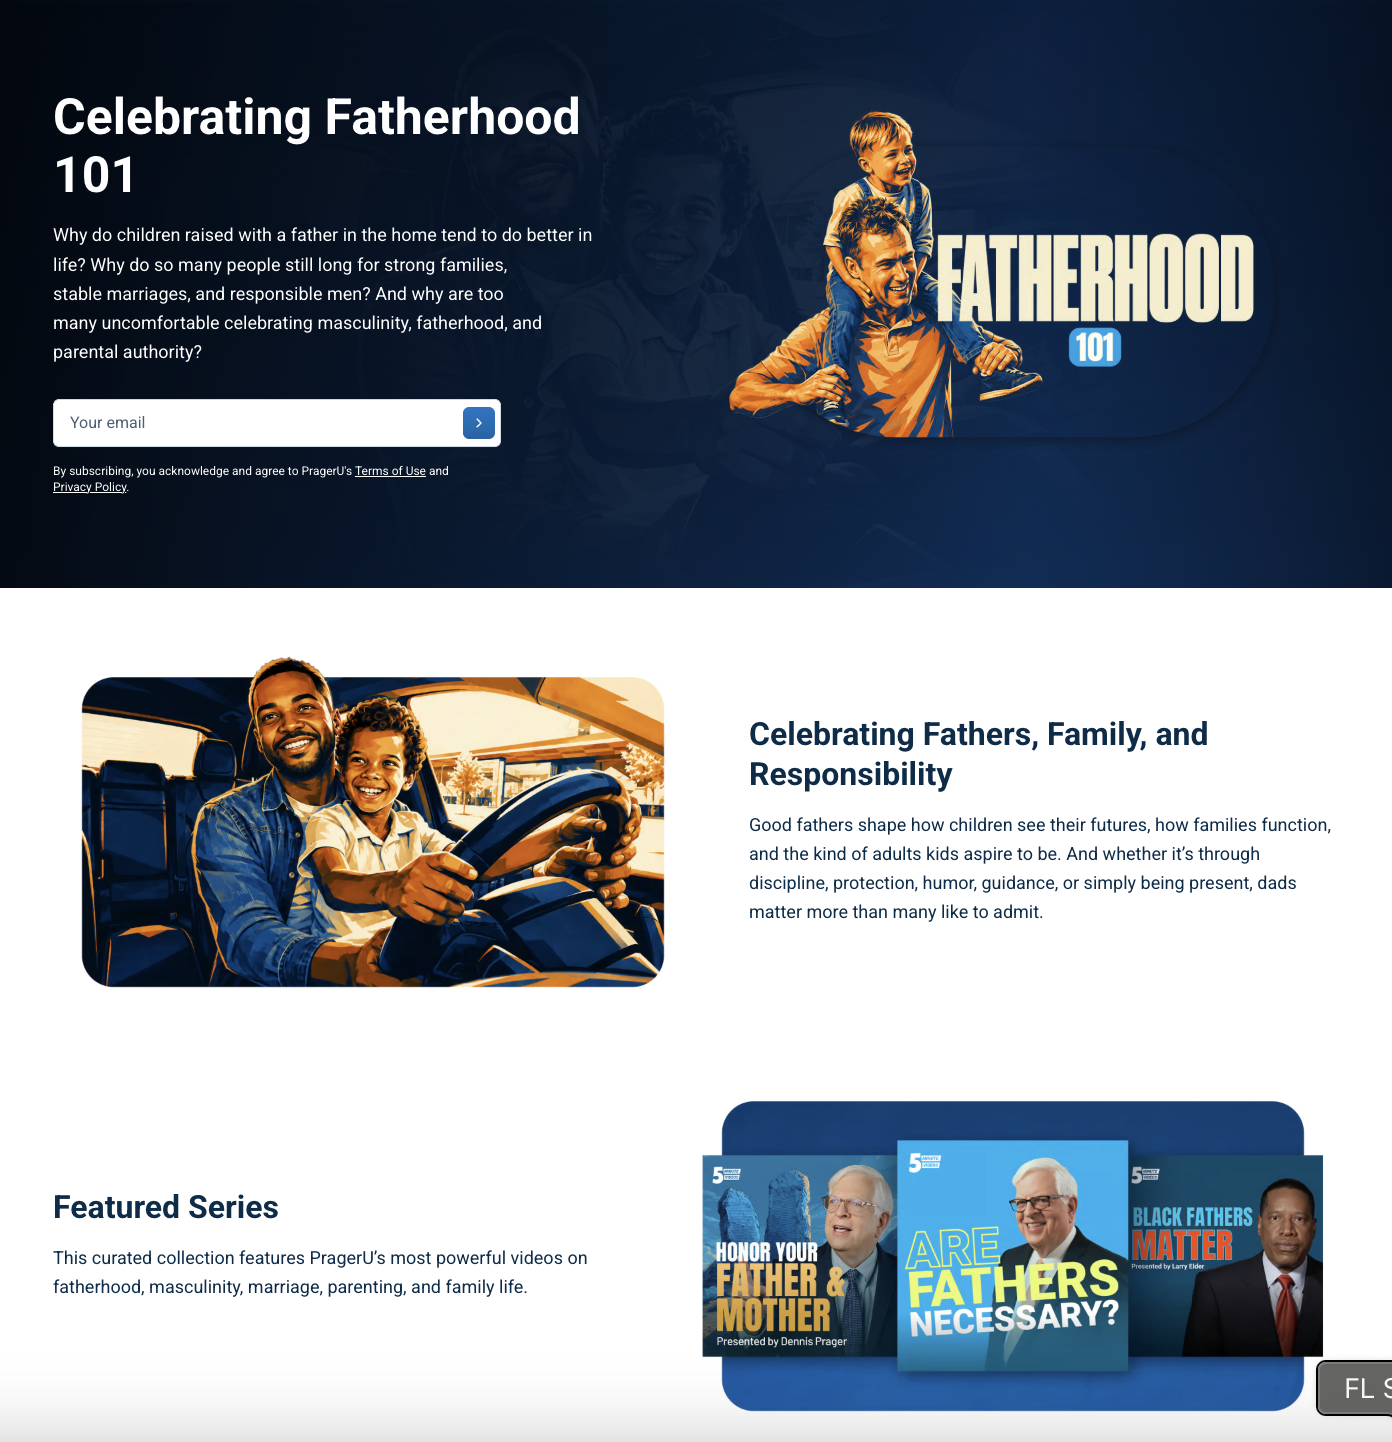
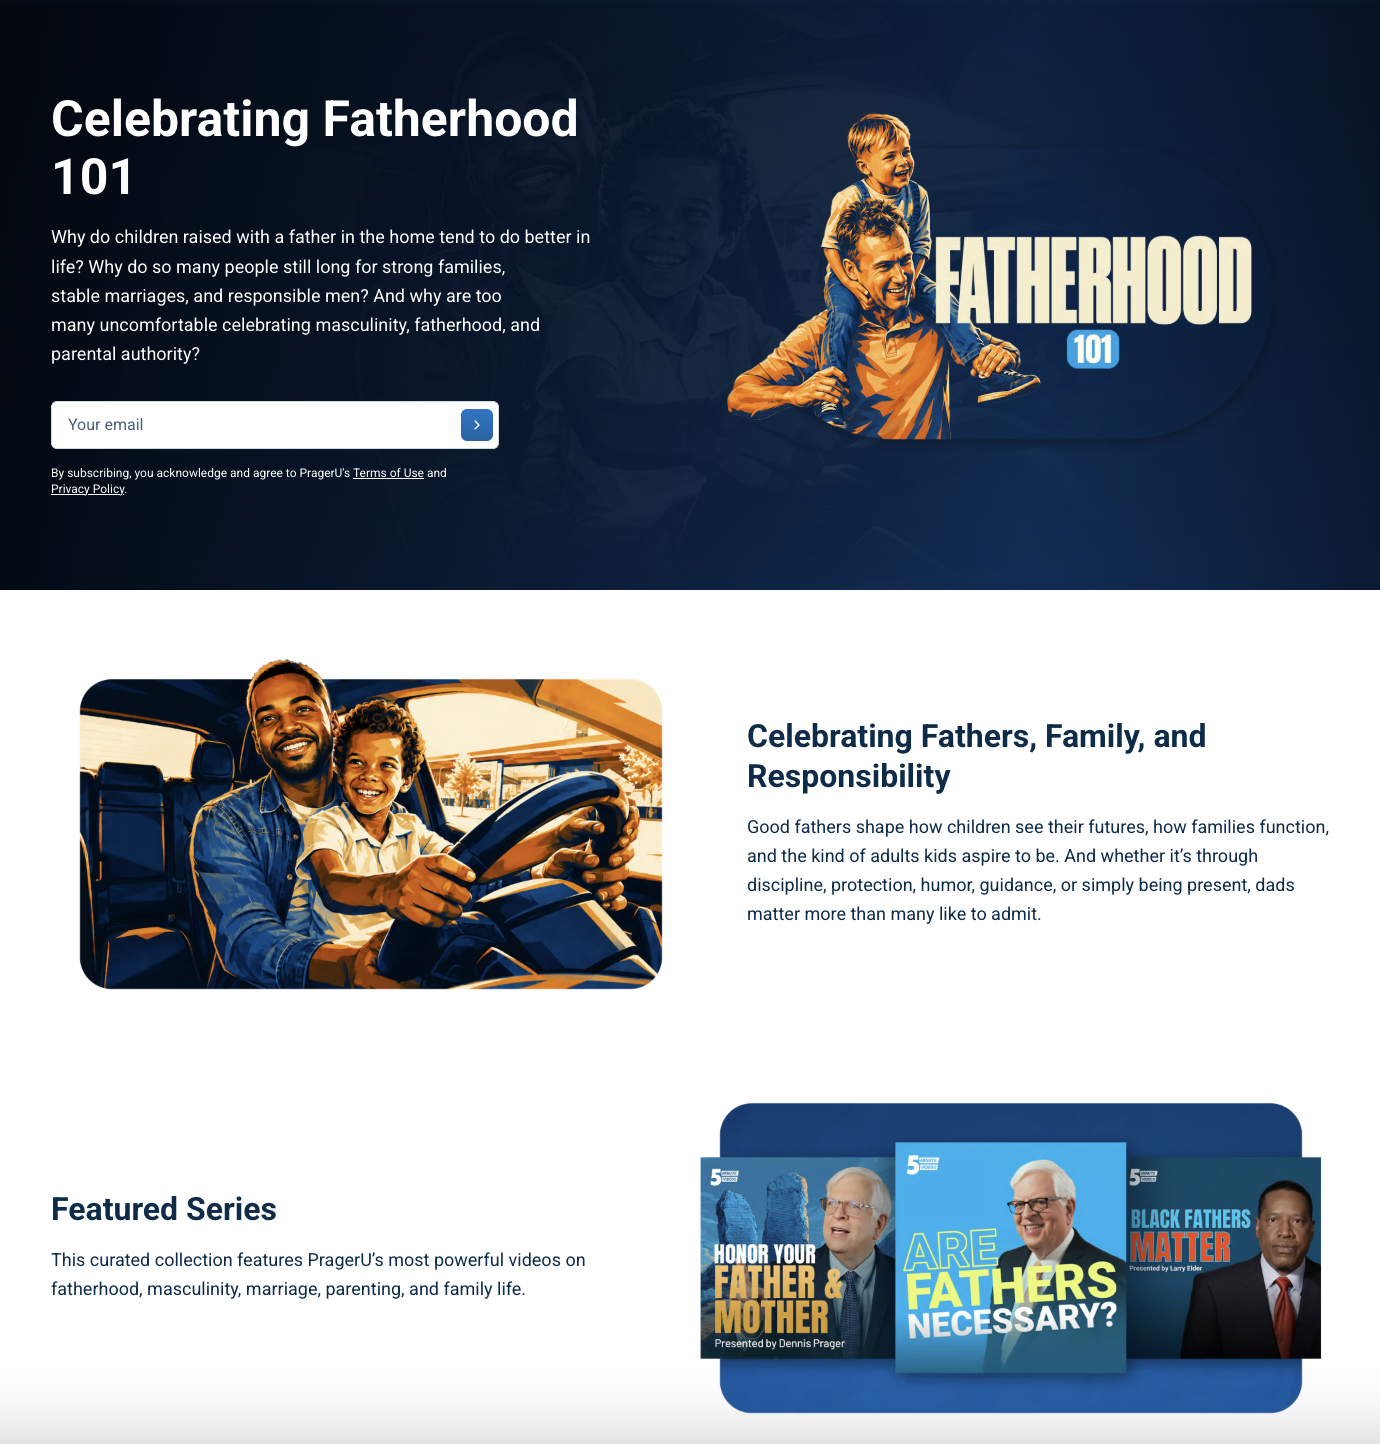
Collage hover on Fatherhood 101 card, remove case study hero, update copy
- ProjectCard: staggered collage overlay on hover for projects with collageImages
- Case study: remove hero section, info bar is now first element
- Rename 'Overview' to 'Project Overview'
- Update all Fatherhood 101 image refs to new clean filenames (quiz.jpg, page.png)

diff --git a/components/ProjectCard.tsx b/components/ProjectCard.tsx
@@ -10,18 +10,29 @@ interface Props {
   className?: string;
 }
 
+// Staggered collage positions: [top%, left%, width%, rotate, zIndex]
+const COLLAGE_LAYOUT = [
+  { top: "5%",  left: "2%",  width: "52%", rotate: "-3deg",  z: 3 },
+  { top: "8%",  left: "54%", width: "28%", rotate: "4deg",   z: 4 },
+  { top: "30%", left: "68%", width: "22%", rotate: "-2deg",  z: 2 },
+  { top: "38%", left: "5%",  width: "46%", rotate: "2.5deg", z: 5 },
+  { top: "55%", left: "42%", width: "34%", rotate: "-4deg",  z: 3 },
+  { top: "62%", left: "10%", width: "30%", rotate: "1.5deg", z: 4 },
+];
+
 export default function ProjectCard({ project, className = "" }: Props) {
   const heroImage = project.images?.[0];
+  const collage = project.collageImages;
 
   return (
     <motion.div
       whileHover={{ scale: 1.02 }}
       transition={{ duration: 0.3, ease: "easeOut" }}
-      className={`relative overflow-hidden project-card ${className}`}
+      className={`relative overflow-hidden project-card group ${className}`}
       style={{ aspectRatio: project.aspect === "portrait" ? "3/4" : "16/9" }}
     >
       <Link href={`/work/${project.slug}`} className="block w-full h-full">
-        {/* Image or color placeholder */}
+        {/* Base image or color */}
         {heroImage ? (
           <Image
             src={heroImage.src}
@@ -35,30 +46,60 @@ export default function ProjectCard({ project, className = "" }: Props) {
             className="w-full h-full flex items-end p-6"
             style={{ background: project.color }}
           >
-            <span
-              className="font-heading text-cream/20 text-5xl leading-none"
-              style={{ letterSpacing: "0.05em" }}
-            >
+            <span className="font-heading text-cream/20 text-5xl leading-none" style={{ letterSpacing: "0.05em" }}>
               {project.title.toUpperCase()}
             </span>
           </div>
         )}
 
-        {/* Hover overlay */}
-        <div className="card-overlay">
-          <p
-            className="font-subtitle text-cream/70 italic text-sm mb-2"
-            style={{ fontStyle: "italic" }}
-          >
-            {project.category} · {project.year}
-          </p>
-          <h3 className="font-heading text-cream text-3xl leading-none">
-            {project.title.toUpperCase()}
-          </h3>
-          <p className="font-body text-cream/80 text-sm mt-2 line-clamp-2">
-            {project.description}
-          </p>
-        </div>
+        {/* Collage overlay — only for projects with collageImages */}
+        {collage ? (
+          <div className="absolute inset-0 opacity-0 group-hover:opacity-100 transition-opacity duration-300"
+               style={{ background: "var(--color-cream)" }}>
+            {collage.map((img, i) => {
+              const pos = COLLAGE_LAYOUT[i] ?? COLLAGE_LAYOUT[0];
+              return (
+                <motion.div
+                  key={img.src}
+                  className="absolute overflow-hidden shadow-lg"
+                  style={{
+                    top: pos.top,
+                    left: pos.left,
+                    width: pos.width,
+                    rotate: pos.rotate,
+                    zIndex: pos.z,
+                    aspectRatio: `${img.width} / ${img.height}`,
+                  }}
+                  initial={{ opacity: 0, y: 10 }}
+                  whileInView={{ opacity: 1, y: 0 }}
+                  transition={{ delay: i * 0.04, duration: 0.25 }}
+                >
+                  <Image
+                    src={img.src}
+                    alt={img.alt}
+                    fill
+                    className="object-cover"
+                    sizes="25vw"
+                  />
+                </motion.div>
+              );
+            })}
+            {/* Title at bottom */}
+            <div className="absolute bottom-0 left-0 right-0 p-4 z-10">
+              <p className="font-subtitle italic text-dark/50 text-xs mb-1">{project.category} · {project.year}</p>
+              <h3 className="font-heading text-dark text-2xl leading-none">{project.title.toUpperCase()}</h3>
+            </div>
+          </div>
+        ) : (
+          /* Standard red overlay */
+          <div className="card-overlay">
+            <p className="font-subtitle text-cream/70 italic text-sm mb-2" style={{ fontStyle: "italic" }}>
+              {project.category} · {project.year}
+            </p>
+            <h3 className="font-heading text-cream text-3xl leading-none">{project.title.toUpperCase()}</h3>
+            <p className="font-body text-cream/80 text-sm mt-2 line-clamp-2">{project.description}</p>
+          </div>
+        )}
       </Link>
     </motion.div>
   );

diff --git a/lib/projects.ts b/lib/projects.ts
@@ -1,3 +1,10 @@
+export interface ProjectImage {
+  src: string;
+  alt: string;
+  width: number;
+  height: number;
+}
+
 export interface Project {
   slug: string;
   title: string;
@@ -11,7 +18,8 @@ export interface Project {
   featured: boolean;
   color: string;
   aspect: "landscape" | "portrait";
-  images?: { src: string; alt: string; width: number; height: number }[];
+  images?: ProjectImage[];
+  collageImages?: ProjectImage[];
 }
 
 export const projects: Project[] = [
@@ -31,12 +39,19 @@ export const projects: Project[] = [
     aspect: "landscape",
     images: [
       { src: "/campaigns/fatherhood-101/spotlight.png", alt: "Fatherhood 101 Spotlight", width: 1920, height: 1080 },
-      { src: "/campaigns/fatherhood-101/square.jpg", alt: "Fatherhood 101 Square", width: 1080, height: 1080 },
-      { src: "/campaigns/fatherhood-101/vertical.jpg", alt: "Fatherhood 101 Vertical", width: 1080, height: 1920 },
-      { src: "/campaigns/fatherhood-101/horizontal.jpg", alt: "Fatherhood 101 Horizontal", width: 1920, height: 1080 },
-      { src: "/campaigns/fatherhood-101/quiz-thumbnail.jpg", alt: "Great American Fathers Quiz Thumbnail", width: 1920, height: 1080 },
-      { src: "/campaigns/fatherhood-101/page.png", alt: "Fatherhood 101 Landing Page", width: 1392, height: 1442 },
-
+      { src: "/campaigns/fatherhood-101/square.jpg",    alt: "Fatherhood 101 Square",    width: 1080, height: 1080 },
+      { src: "/campaigns/fatherhood-101/vertical.jpg",  alt: "Fatherhood 101 Vertical",  width: 1080, height: 1920 },
+      { src: "/campaigns/fatherhood-101/horizontal.jpg",alt: "Fatherhood 101 Horizontal",width: 1920, height: 1080 },
+      { src: "/campaigns/fatherhood-101/quiz.jpg",      alt: "Supplementary Quiz",        width: 1920, height: 1080 },
+      { src: "/campaigns/fatherhood-101/page.png",      alt: "Fatherhood 101 Landing Page", width: 1380, height: 1444 },
+    ],
+    collageImages: [
+      { src: "/campaigns/fatherhood-101/spotlight.png", alt: "Spotlight",   width: 1920, height: 1080 },
+      { src: "/campaigns/fatherhood-101/square.jpg",    alt: "Square",      width: 1080, height: 1080 },
+      { src: "/campaigns/fatherhood-101/vertical.jpg",  alt: "Vertical",    width: 1080, height: 1920 },
+      { src: "/campaigns/fatherhood-101/horizontal.jpg",alt: "Horizontal",  width: 1920, height: 1080 },
+      { src: "/campaigns/fatherhood-101/page.png",      alt: "Page",        width: 1380, height: 1444 },
+      { src: "/campaigns/fatherhood-101/quiz.jpg",      alt: "Quiz",        width: 1920, height: 1080 },
     ],
   },
   {

diff --git a/components/CaseStudyClient.tsx b/components/CaseStudyClient.tsx
@@ -25,56 +25,13 @@ export default function CaseStudyClient({
 
   return (
     <div className="min-h-screen" style={{ background: "var(--color-cream)" }}>
-      {/* Hero */}
-      <div
-        className="relative flex items-end px-6 md:px-10 pb-16 pt-32 min-h-[60vh]"
-        style={{ background: project.color }}
-      >
-        {project.images?.[0] && (
-          <Image
-            src={project.images[0].src}
-            alt={project.images[0].alt}
-            fill
-            className="object-cover opacity-40"
-            priority
-            sizes="100vw"
-          />
-        )}
-        <div
-          className="absolute inset-0"
-          style={{
-            backgroundImage:
-              "repeating-linear-gradient(45deg, rgba(255,255,255,0.03) 0px, rgba(255,255,255,0.03) 1px, transparent 1px, transparent 16px)",
-          }}
-        />
-        <div className="relative z-10 max-w-7xl mx-auto w-full">
-          <motion.p
-            initial={{ opacity: 0 }}
-            animate={{ opacity: 1 }}
-            transition={{ delay: 0.2 }}
-            className="font-subtitle italic text-cream/60 text-lg mb-4"
-          >
-            {project.category} · {project.year}
-          </motion.p>
-          <motion.h1
-            initial={{ opacity: 0, y: 40 }}
-            animate={{ opacity: 1, y: 0 }}
-            transition={{ duration: 0.6, ease: [0.25, 0.1, 0.25, 1] }}
-            className="font-heading text-cream leading-none"
-            style={{ fontSize: "clamp(3.5rem, 10vw, 9rem)" }}
-          >
-            {project.title.toUpperCase()}
-          </motion.h1>
-        </div>
-      </div>
-
-      {/* Info bar */}
+      {/* Info bar — now the first thing */}
       <motion.div
         variants={reveal}
         initial="hidden"
         whileInView="visible"
         viewport={{ once: true }}
-        className="border-b-2 border-blue/10"
+        className="pt-20 border-b-2 border-blue/10"
       >
         <div className="max-w-7xl mx-auto px-6 md:px-10 grid grid-cols-2 md:grid-cols-4 gap-8 py-10">
           {[
@@ -103,7 +60,7 @@ export default function CaseStudyClient({
           className="font-heading text-dark mb-6"
           style={{ fontSize: "clamp(2rem, 4vw, 3.5rem)" }}
         >
-          OVERVIEW
+          PROJECT OVERVIEW
         </h2>
         <p
           className="font-body text-dark/80 text-lg leading-relaxed"
